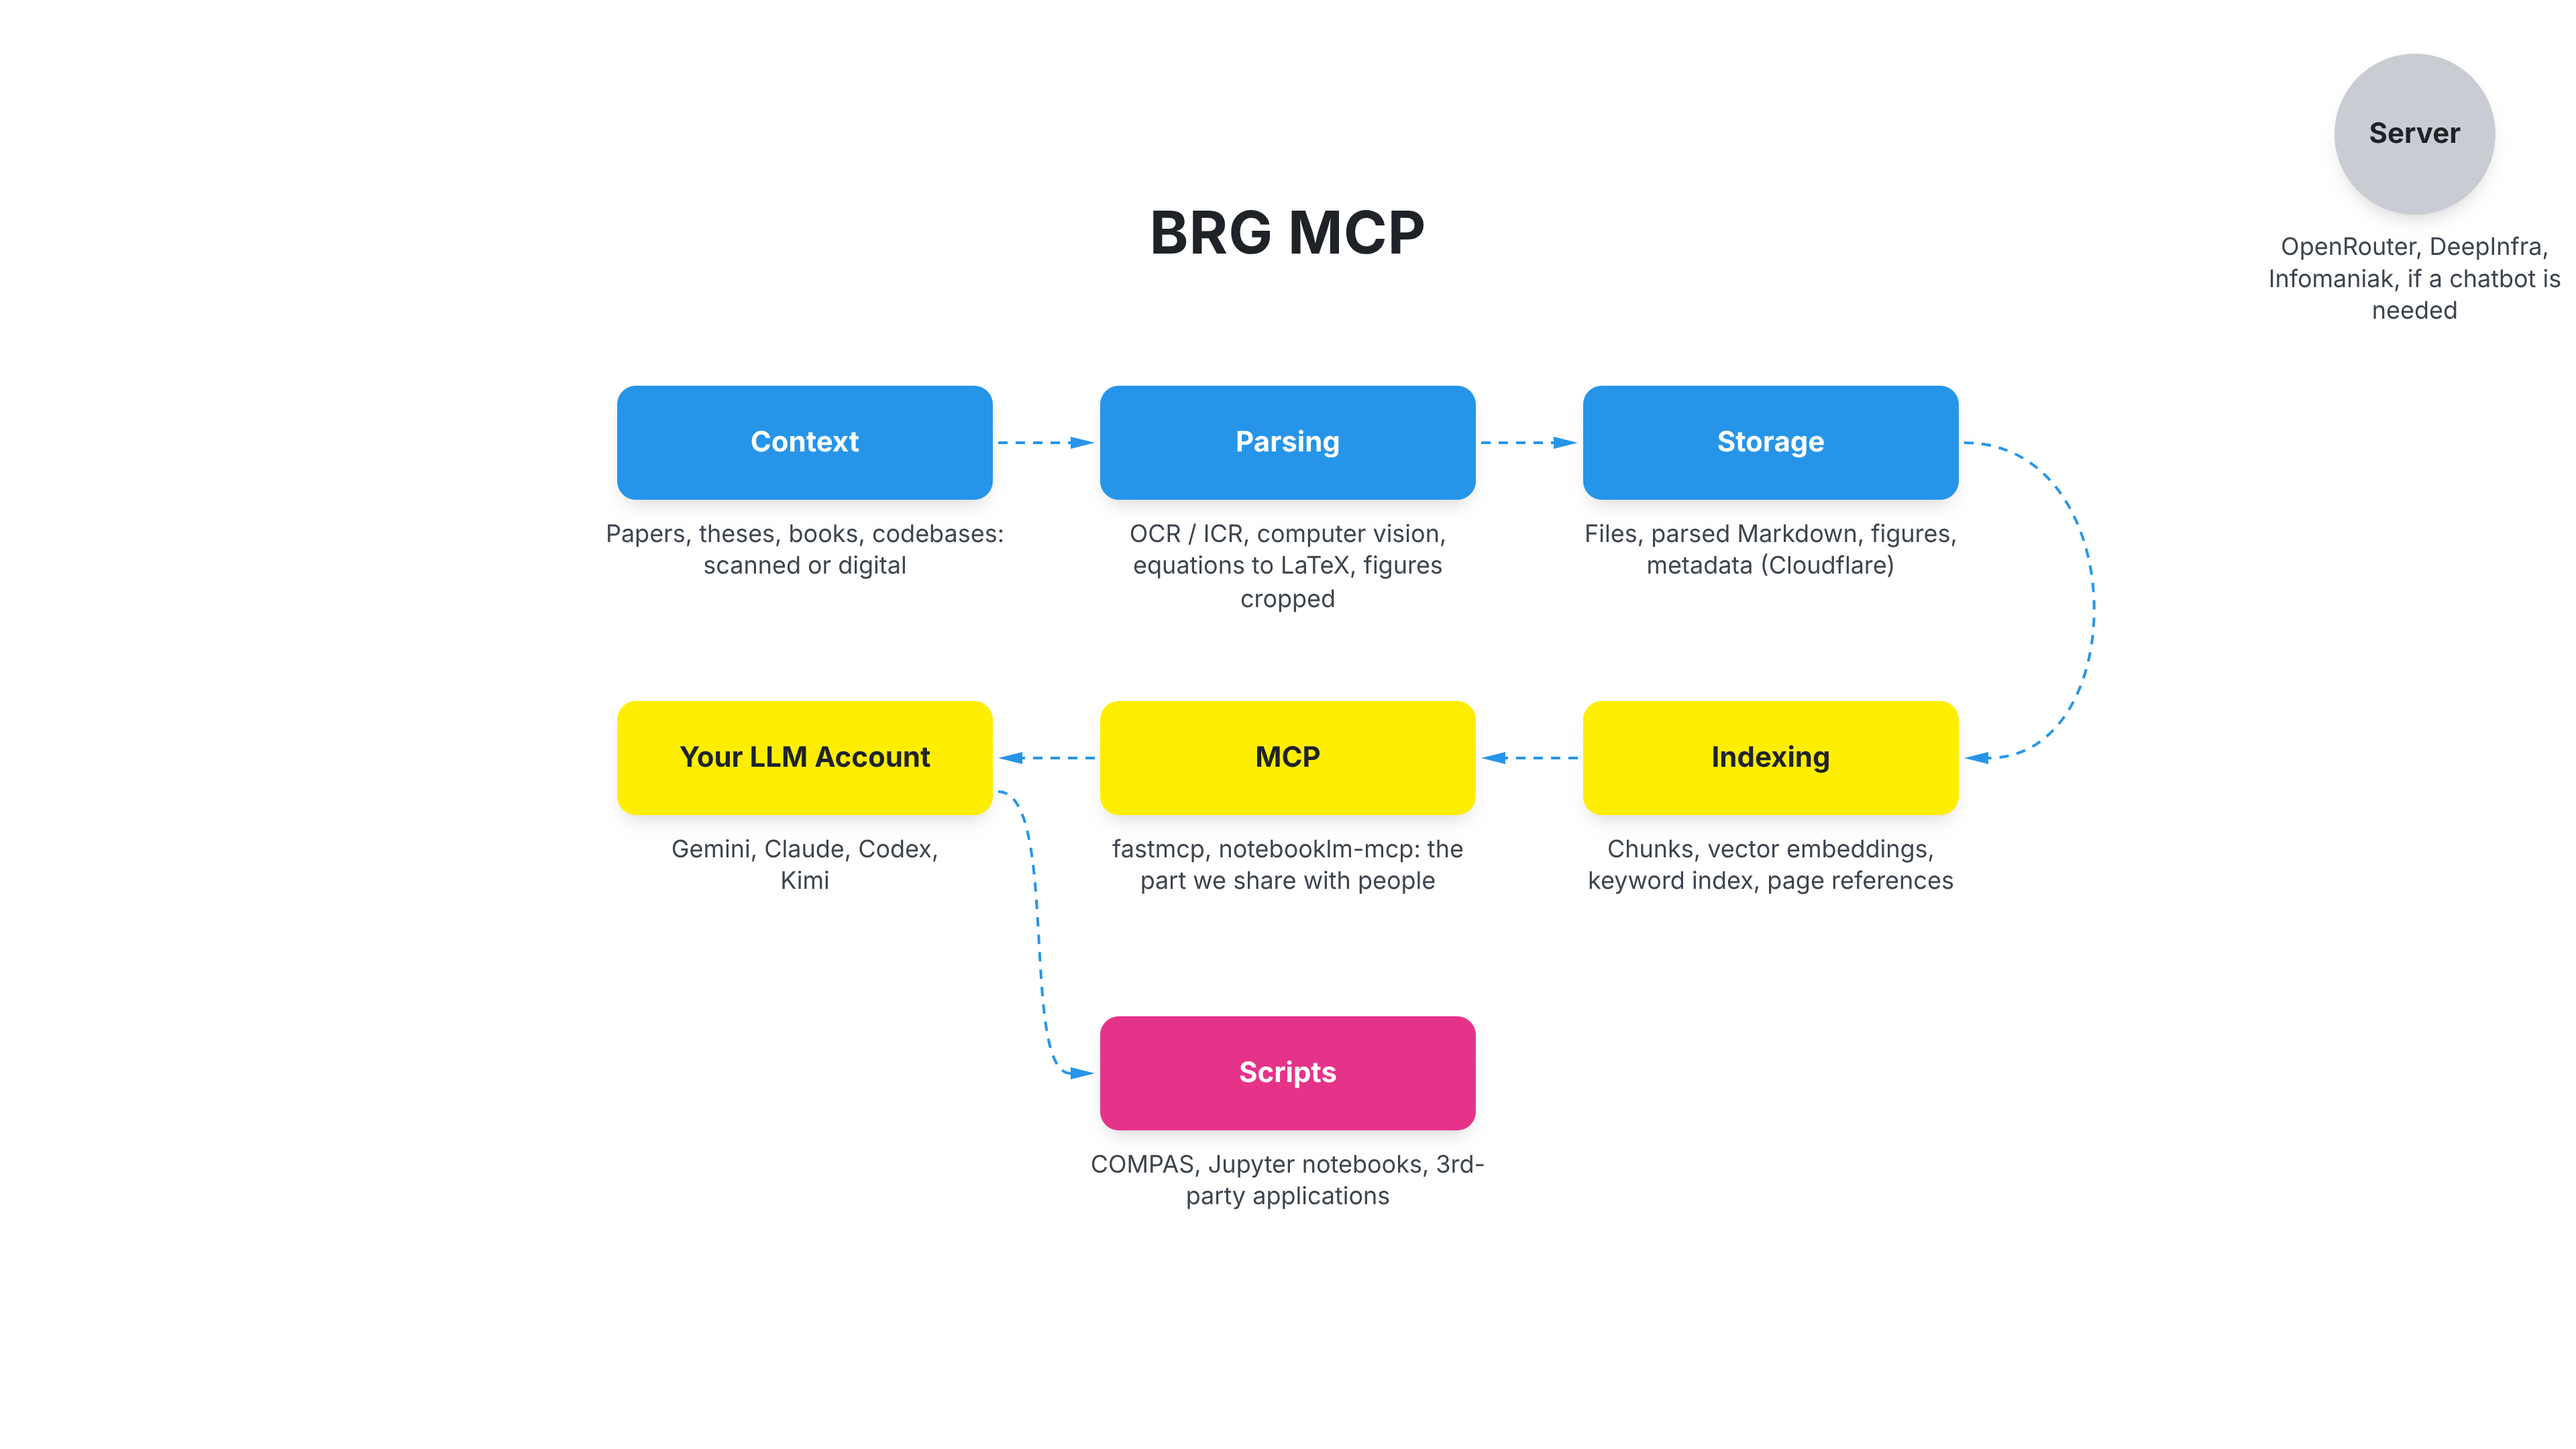
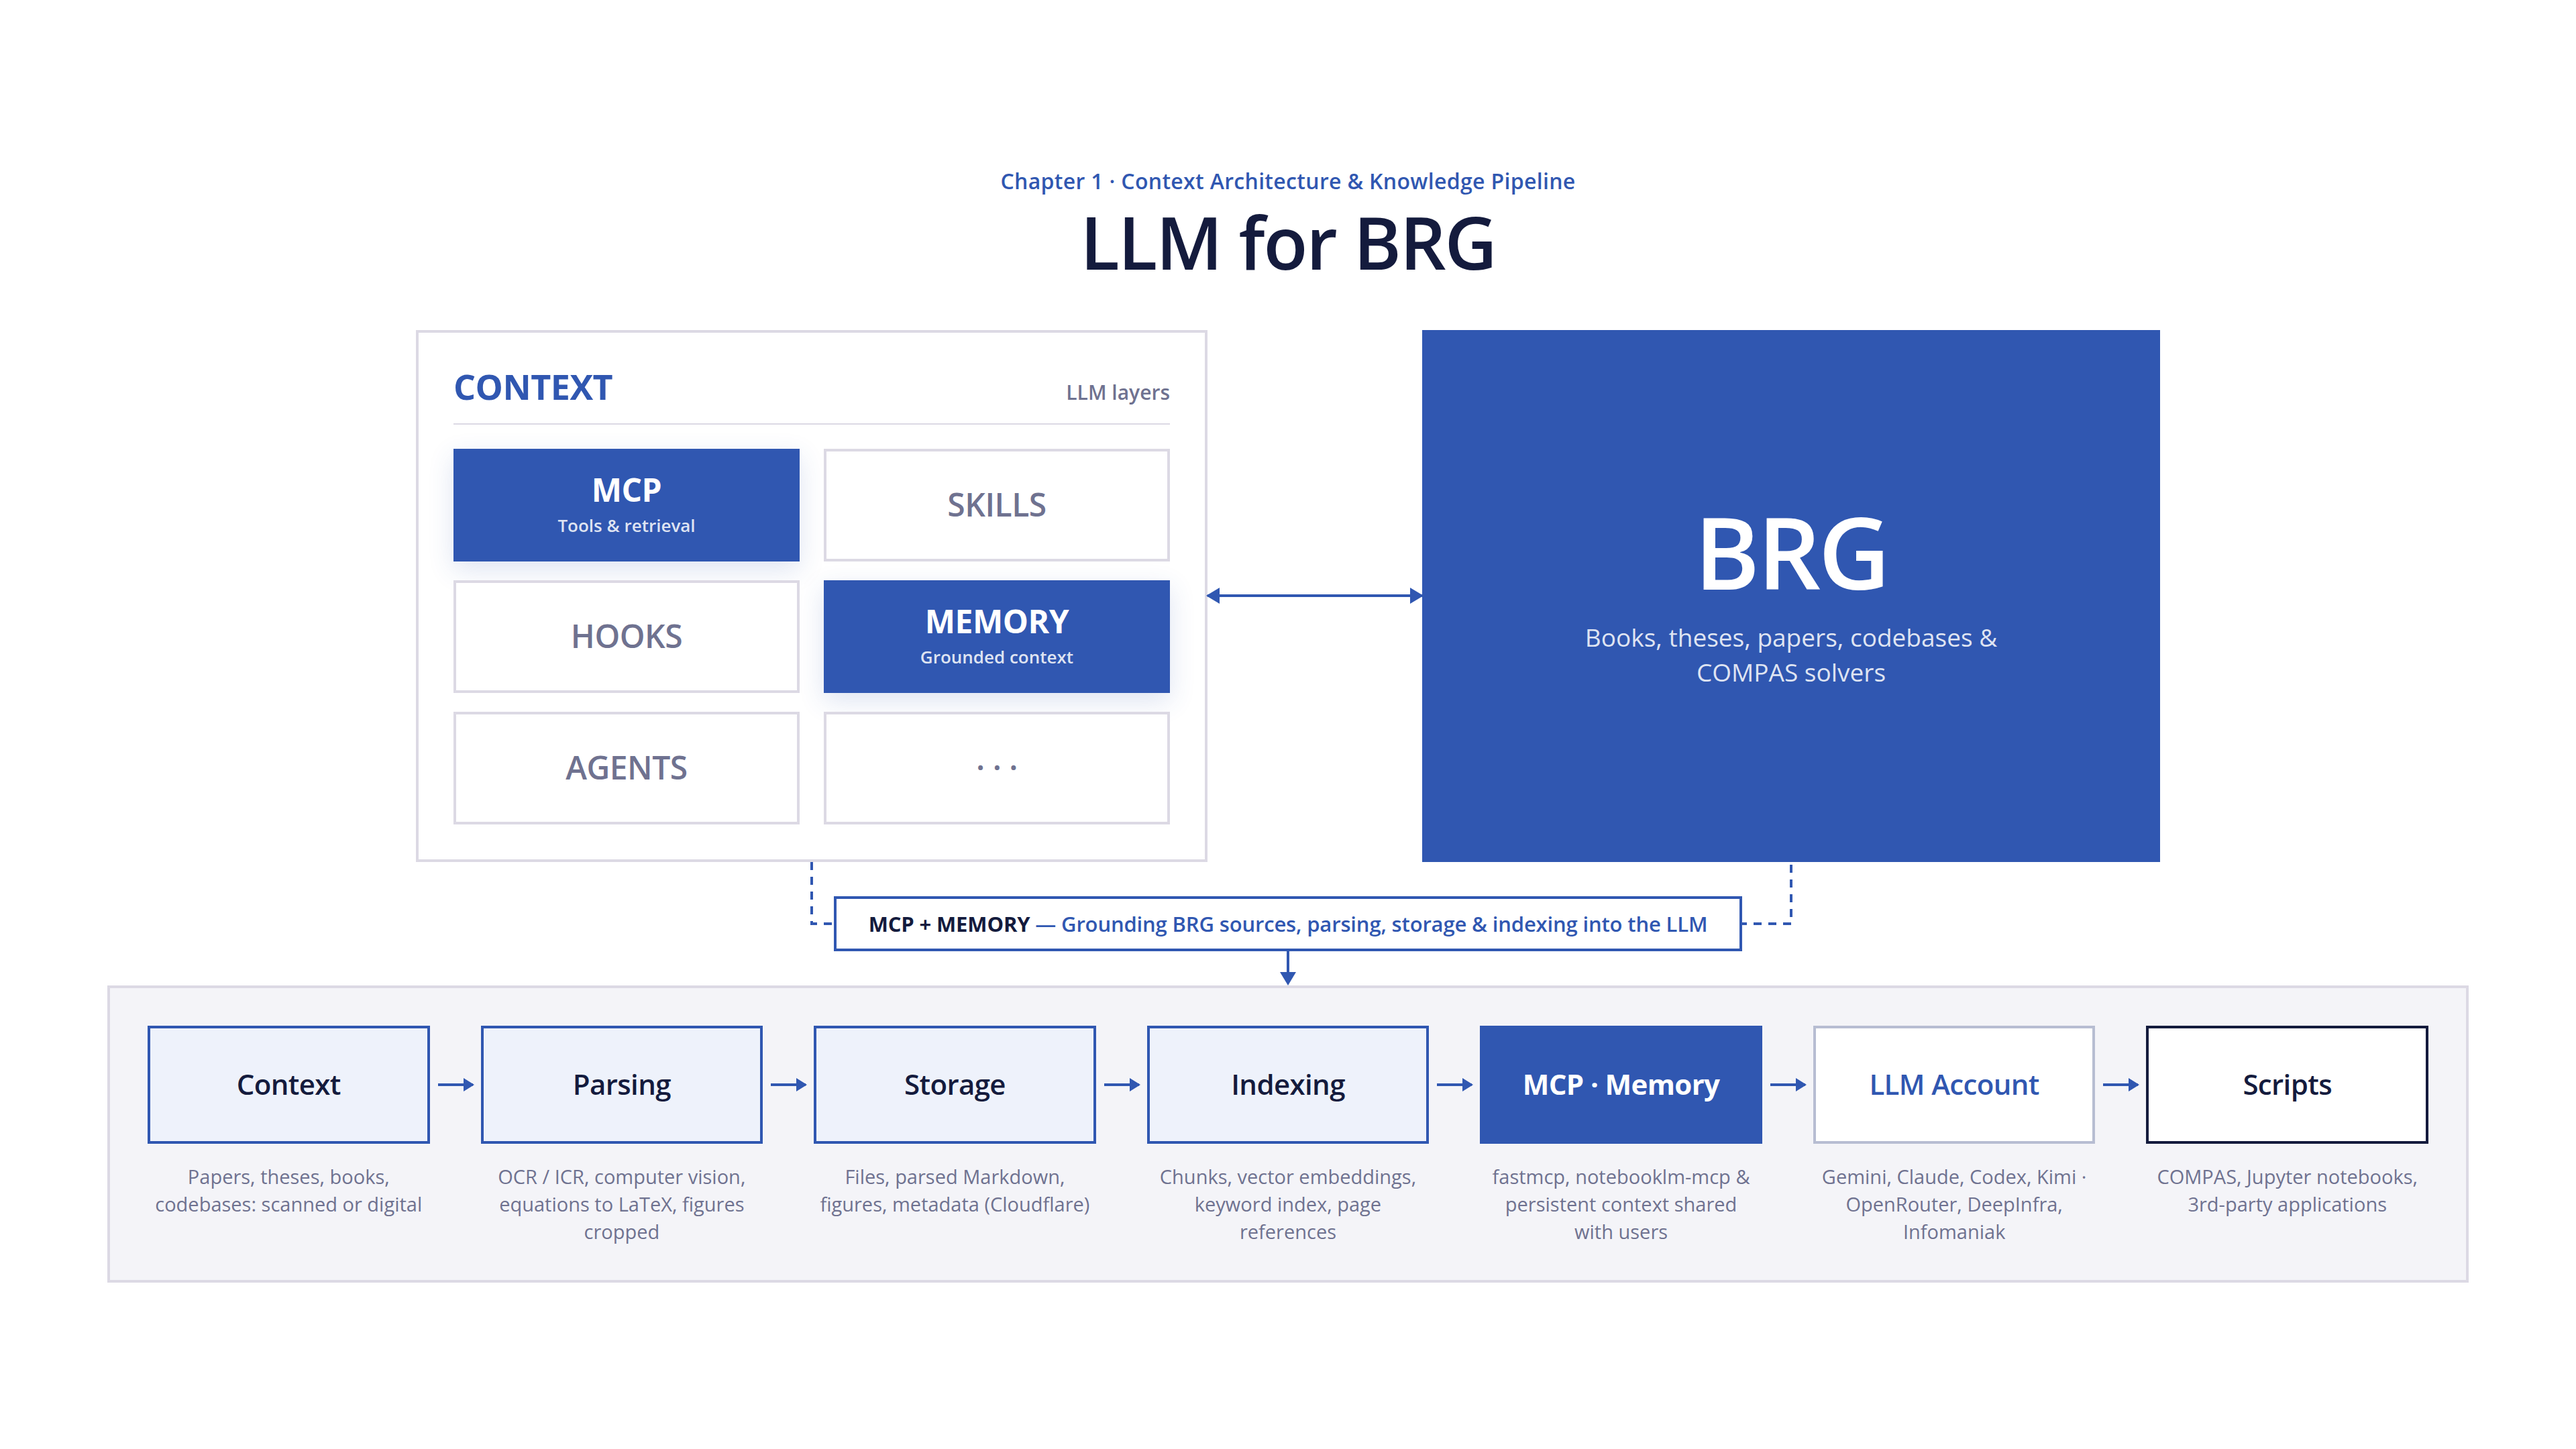
Update Ch 1 to LLM for BRG and redesign context/pipeline slide

diff --git a/CAS/website/data.js b/CAS/website/data.js
@@ -14,11 +14,11 @@ window.CAS = {
   chapters: [
     {
       n: 1, color: '#3057b1', ects: 1, hours: 30, weeks: 'Weeks 1–2',
-      title: 'MCP for BRG',
+      title: 'LLM for BRG',
       logo: 'slide03-icon09.svg',
       mcp: {
         client: { title: 'LLM' },
-        protocol: { title: 'MCP' },
+        protocol: { title: 'BRG' },
       },
       contents: {
         lead: 'A practical LLM layer over BRG knowledge and the COMPAS ecosystem.',
@@ -27,7 +27,7 @@ window.CAS = {
           slides: [
             { src: 'presentations/mcp/slide-1.png', alt: 'Laptop showing structural form and force diagrams beside a source-grounded study notebook chat.' },
             { src: 'presentations/mcp/slide-2.png', alt: 'Books in German, French and English, a laptop showing scripts and an LLM study notebook, and a tablet with graphic statics notes.' },
-            { src: 'presentations/mcp/slide-3.png', alt: 'BRG MCP workflow connecting context, parsing, storage, indexing, MCP, an LLM account, and scripts.' },
+            { src: 'presentations/mcp/slide-3.png', alt: 'LLM for BRG architecture: Context layers (MCP, Skills, Hooks, Memory, Agents) connected to BRG and the Context, Parsing, Storage, Indexing, LLM and Scripts pipeline.' },
           ],
         },
         items: [
@@ -334,7 +334,7 @@ window.CAS = {
   },
 
   grading: [
-    { ch: 1, weight: 'ungraded', what: 'MCP workflow, one evaluation' },
+    { ch: 1, weight: 'ungraded', what: 'LLM workflow, one evaluation' },
     { ch: 2, weight: '10 %', what: 'Notebooks, truss module' },
     { ch: 3, weight: '10 %', what: 'Three views in code' },
     { ch: 4, weight: '10 %', what: 'Net and canopy, FD vs DR' },
